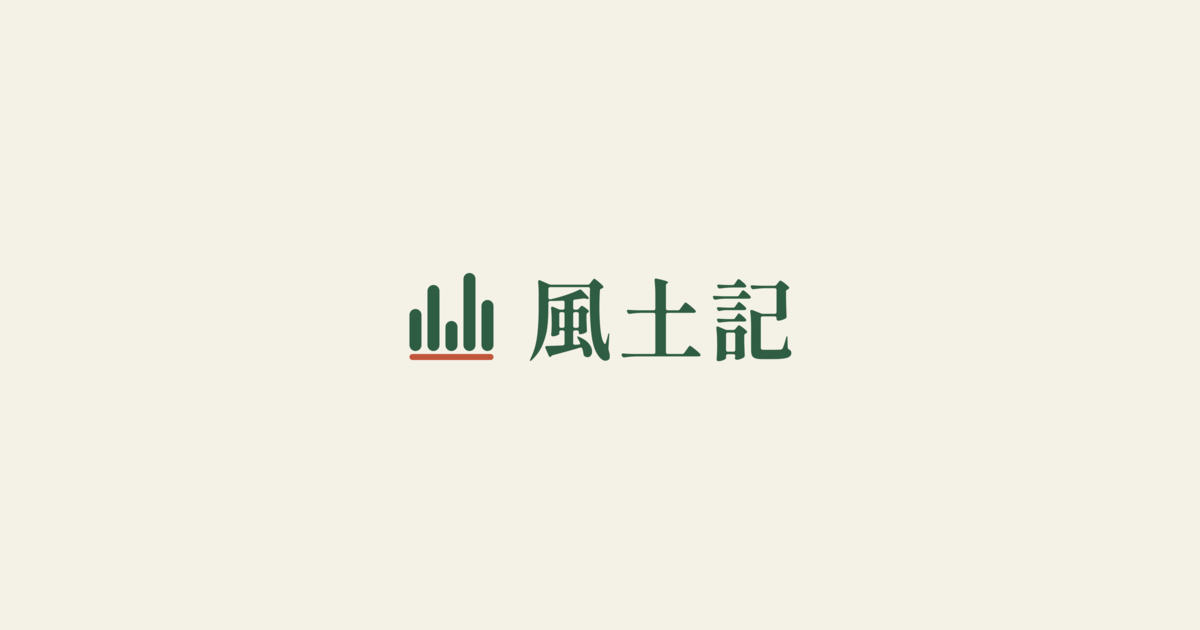
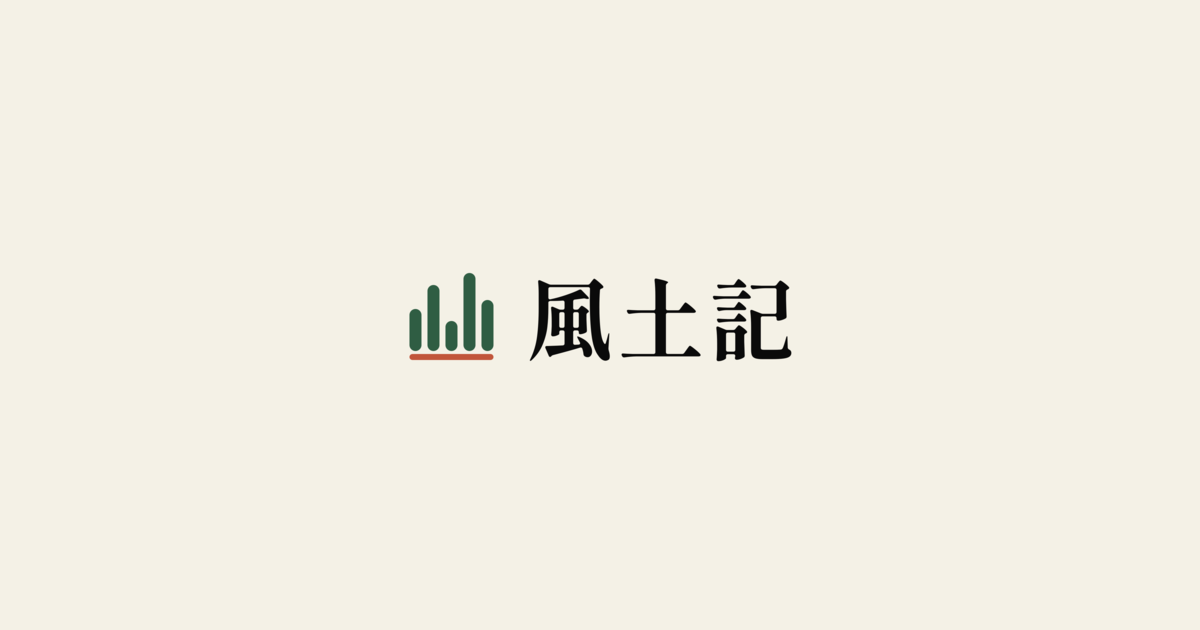
fix(brand): ロゴの文字を本文色にし、ヘッダはマーク単体にする
色を持つのはマークだけにする。マークと文字の両方に色を付けると、
どちらがブランドの主張なのかが割れる。
文字の値は画面の --foreground と同じ（#0a0a0a / #fafafa）。

ヘッダはマーク単体（mark.svg / mark-dark.svg）を出す。
画面はロゴの明朝を読み込んでいないので、和文を出せば必ずロゴと違う字形になる。

⚠ ファビコンとマークは同じ意匠だが別ファイルにしてある。
ファビコンはブラウザのタブが OS 設定に従うのでメディアクエリでよく、
ヘッダのマークは画面のテーマ（クラス）に合わせるので 2 枚に分ける必要がある。

Changed region(s): [[0.4317, 0.4524, 0.6783, 0.573]]

diff --git a/apps/web/src/App.tsx b/apps/web/src/App.tsx
@@ -131,8 +131,8 @@ export default function App() {
       <header className="sticky top-0 z-30 flex h-14 items-center gap-4 border-b bg-background/95 px-4 backdrop-blur">
         {/* ⚠ ロゴを1枚にしない。`<img>` の中のメディアクエリは OS 設定しか見ないので、
             OS がライトのまま画面をダークにするとロゴだけ取り残される */}
-        <img src="/logo.svg" alt="風土記" className="h-6 w-auto shrink-0 dark:hidden" />
-        <img src="/logo-dark.svg" alt="" aria-hidden className="hidden h-6 w-auto shrink-0 dark:block" />
+        <img src="/mark.svg" alt="風土記" className="size-6 shrink-0 dark:hidden" />
+        <img src="/mark-dark.svg" alt="" aria-hidden className="hidden size-6 shrink-0 dark:block" />
         <Badge variant={report.summary.failed ? 'destructive' : 'secondary'} className="ml-auto shrink-0">
           検査 {report.summary.passed}/{report.summary.total}
         </Badge>

diff --git a/apps/web/brand/build.py b/apps/web/brand/build.py
@@ -55,6 +55,10 @@ FONT = Path(os.environ.get("FONT", _DEFAULT_FONT))
 # 対はマークの基準線に出る — 短冊が並ぶ「地面」だけが丹になる。
 INK, RULE, PAPER = "#2f5d43", "#c1553a", "#f4f1e6"
 INK_DARK, RULE_DARK = "#8fbfa2", "#e08267"
+# 「風土記」の文字は**本文色**で組む。マークが色を持ち、文字は持たない。
+# 両方に色を付けると、どちらがブランドの主張なのかが割れる。
+# 値は画面の `--foreground`（`oklch(0.145 0 0)` / `oklch(0.985 0 0)`）と同じ。
+TEXT, TEXT_DARK = "#0a0a0a", "#fafafa"
 
 # マークの意匠。同じ基準線に並ぶ、長さの違う短冊（木簡 / 棒グラフ）。32 単位系。
 BARS = [(2, 14, 14), (8, 6, 22), (14, 18, 10), (20, 2, 26), (26, 11, 17)]
@@ -139,6 +143,16 @@ THEME = f"""
     f'  {mark(1, 0, 0, themed=True)}\n</svg>\n'
 )
 
+# ---- mark.svg / mark-dark.svg：マーク単体 ----
+# ファビコンと同じ意匠だが、**テーマの追い方が違うので別ファイルにする**。
+# ファビコンはブラウザのタブが OS 設定に従うのでメディアクエリでよく、
+# こちらは画面のテーマ（クラス）に合わせるので 2 枚に分けてクラスで出し分ける。
+for name, ink, rule in [("mark.svg", INK, RULE), ("mark-dark.svg", INK_DARK, RULE_DARK)]:
+    (PUBLIC / name).write_text(
+        f'<svg xmlns="http://www.w3.org/2000/svg" viewBox="0 0 32 32" role="img" aria-label="風土記">\n'
+        f"  {mark(1, 0, 0, ink=ink, rule=rule)}\n</svg>\n"
+    )
+
 # ---- logo.svg / logo-dark.svg：マーク + 「風土記」の横組み ----
 # ⚠ 字面の中心（draw が計算する ink bbox の中心）に合わせると、重心が上に見える。
 # マークは下端の基準線が「地面」として読まれるぶん視覚的な重さが下にあるのに対し、
@@ -150,15 +164,18 @@ THEME = f"""
 # `prefers-color-scheme` は OS 設定しか見ない。1枚にすると、OS がライトのまま
 # 画面をダークにしたときにロゴだけ取り残される。ファビコンは逆に
 # ブラウザのタブが OS 設定に従うので、あちらはメディアクエリのままでよい。
-H, GAP, TEXT, TEXT_DY = 40, 9, 30, 0.055
+H, GAP, TEXT_SIZE, TEXT_DY = 40, 9, 30, 0.055
 tx = 32 * (H / 32) + GAP
-W = tx + measure("風土記", TEXT, 0.03)
-for name, ink, rule in [("logo.svg", INK, RULE), ("logo-dark.svg", INK_DARK, RULE_DARK)]:
+W = tx + measure("風土記", TEXT_SIZE, 0.03)
+for name, ink, rule, text in [
+    ("logo.svg", INK, RULE, TEXT),
+    ("logo-dark.svg", INK_DARK, RULE_DARK, TEXT_DARK),
+]:
     (PUBLIC / name).write_text(
         f'<svg xmlns="http://www.w3.org/2000/svg" viewBox="0 0 {W:.0f} {H}" role="img" aria-label="風土記">\n'
         f"  <title>風土記</title>\n"
         f"  {mark(H / 32, 0, 0, ink=ink, rule=rule)}\n"
-        f'  <g fill="{ink}">{draw("風土記", TEXT, tx, H / 2 + TEXT * TEXT_DY, 0.03)}</g>\n</svg>\n'
+        f'  <g fill="{text}">{draw("風土記", TEXT_SIZE, tx, H / 2 + TEXT_SIZE * TEXT_DY, 0.03)}</g>\n</svg>\n'
     )
 
 # ---- og.png：1200x630。SVG を経由して焼く ----
@@ -170,7 +187,7 @@ og = (
     f'<svg xmlns="http://www.w3.org/2000/svg" width="{OW}" height="{OH}" viewBox="0 0 {OW} {OH}">\n'
     f'  <rect width="{OW}" height="{OH}" fill="{PAPER}"/>\n'
     f'  {mark(OG_MARK / 32, ox, cy - OG_MARK / 2)}\n'
-    f'  <g fill="{INK}">{draw("風土記", OG_TEXT, ox + OG_MARK + OG_GAP, cy + OG_TEXT * TEXT_DY, 0.04)}</g>\n'
+    f'  <g fill="{TEXT}">{draw("風土記", OG_TEXT, ox + OG_MARK + OG_GAP, cy + OG_TEXT * TEXT_DY, 0.04)}</g>\n'
     "</svg>\n"
 )
 (HERE / "og.svg").write_text(og)

diff --git a/DESIGN.md b/DESIGN.md
@@ -177,7 +177,7 @@ components:
     height: 2px
   og-canvas:
     backgroundColor: "{colors.og-paper}"
-    textColor: "{colors.primary}"
+    textColor: "{colors.foreground}"
     width: 1200px
     height: 630px
 ---
@@ -238,6 +238,11 @@ COFOG のディビジョン（01〜10）にも 10 色を割り当てているが
 
 `{colors.mark-rule}`（丹）は UI トークンではない。ロゴのマークの基準線＝短冊が並ぶ「地面」にだけ出る塗りで、
 対を意匠として持つのはロゴの側の仕事。画面のトークンには置かない。
+
+**ロゴの「風土記」は本文色（`{colors.foreground}`）で組む。** 色を持つのはマークだけ。
+両方に色を付けると、どちらがブランドの主張なのかが割れる。
+ヘッダに出すのも**マーク単体**で、文字は入れない — 画面はロゴの明朝を読み込んでいないので、
+和文を出せば必ずロゴと違う字形になる。
 
 ダークモードは同じ色相を保ったまま明度だけを上げる（`{colors.primary}` は 43.7% → 76.2%）。
 **色相を変えると、その色が意味していたものがテーマによって別物に見える。**
